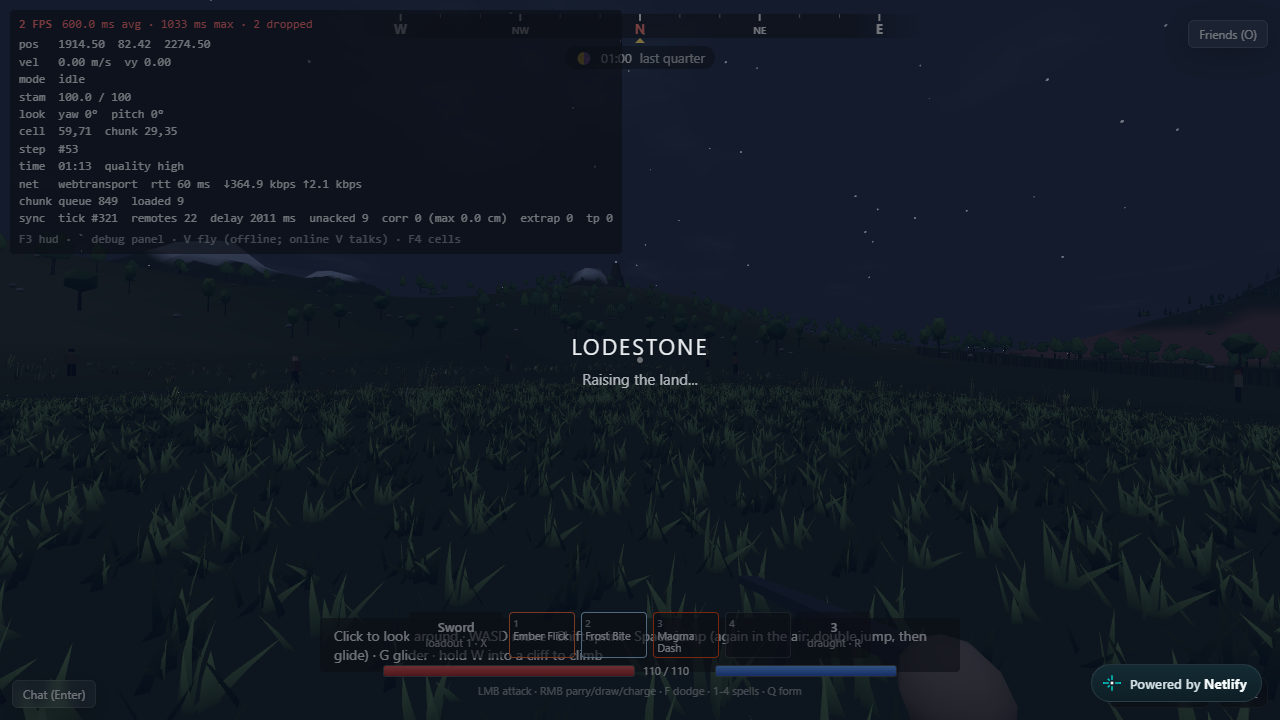
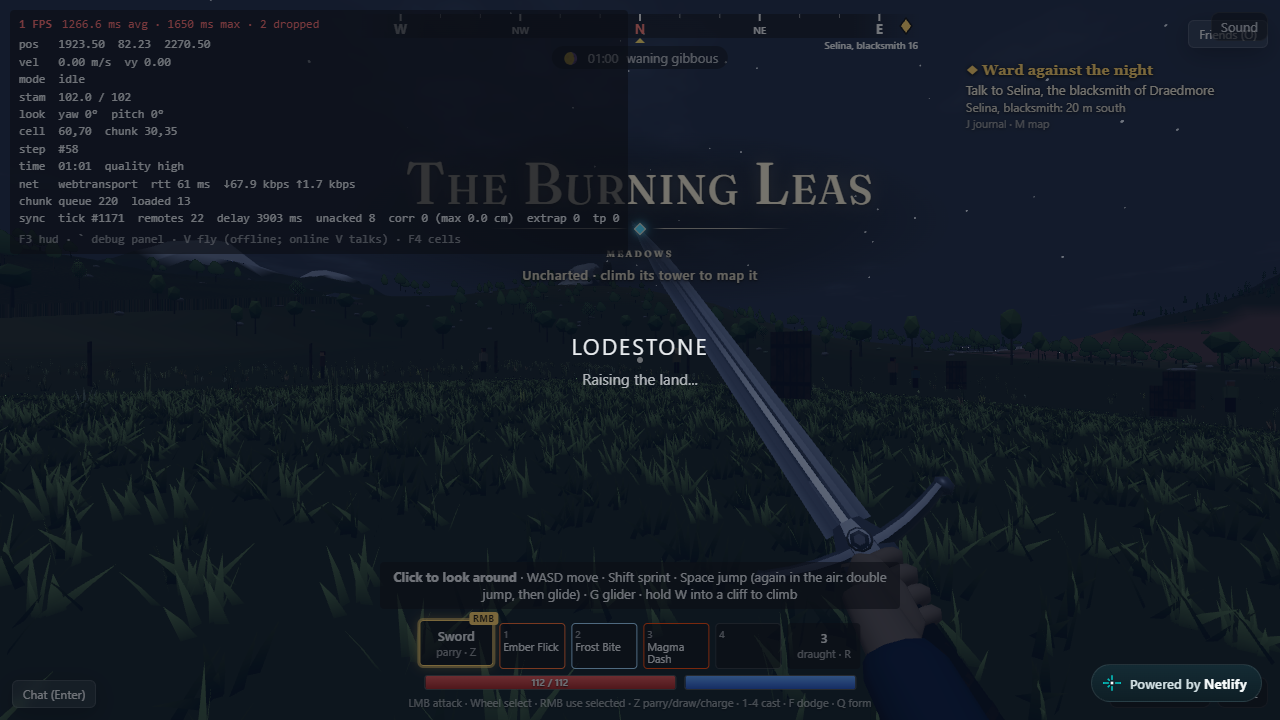
Live: renewed to genVersion 2, redeployed, smoke evidence

diff --git a/docs/STATUS.md b/docs/STATUS.md
@@ -10,7 +10,7 @@ Gates: G0 ✅ · G1 ✅ · G2 ✅ · G3 ✅ · G4 ✅ · G5 ⏳
 - **G2**: two browsers see each other on *generated terrain* over the binary protocol under "thailand": docs/evidence/g2-two-browsers-terrain-ws.txt and g2-terrain-ws-*.png (run on main after the WP05 merge: 0 local corrections, 0 remote teleports; a first run on a heavily loaded machine (2 fps headless) logged one 58 cm eased remote jump, the re-run had none). 150-bot soaks within budget: wp03-soak-*, wp07-soak-spread.*. Chat and whispers: wp08-e2e.txt. Known gap: the WP06 acceptance harness doesn't start the social service, so its browsers log refused social sockets (harmless; WP08's e2e covers social).
 - **G3**: two friends (two headless Chromium browsers, real account/director/zone/social services, shared LiveKit) in one session: friends + party, proximity voice (16.2 dB fade 3-7 m vs 30-40 m, silent past 51.5 m, party radio flat past 56 m), tower climb with stamina + glide (prediction <= 0.83 cm, 0 corrections), tower reveal + fast travel + shared party pin, both walk 190 m down into the same cave (seen 143/143, heard 143/143, 0 corrections) and mine an iron vein. 45/45 checks: docs/evidence/g3-acceptance.txt, g3-*.png; re-run `node tools/acceptance/g3.mjs`. Three cross-package bugs fixed on the way (cave earshot rule never fed, cave voice wrongly muffled, endless corrections after a teleport). Weather is pinned dry in the run (rain halves climb speed by design). WP20 (towns) is still being built; G3 itself does not need towns.
 - **G4**: one session on merged main, real account/director/zone/social services, a headless Chromium player driving the real client UI (inventory, crafting panel, forge, socketing) plus two night bots: fight a camp (2 boars), loot (4 kill grants, 2 chests), mine 2 sunsteel veins + a topaz, walk into town, buy the Sunsteel Blade blueprint, smelt 2 ingots, forge the blade, socket the topaz (zone reports lightning element), equip; at night 4 demons shrug off 17 starting-sword hits and die to the blade in 25 s; a 3-wave town defense (34 demons) holds; sunrise burns the rest; player survives. 32/32 checks: docs/evidence/g4-acceptance.txt, g4-*.png; re-run `node tools/acceptance/g4.mjs` (~11 min). Dev shortcuts: rejoin at spawn points to reach far cave veins, debug camp placement, clock jumps between dusk and dawn, forced defense, rain off. Three cross-package bugs fixed (cave HUD surviving rejoins, leashed bots locking onto unreachable enemies, chest list not resent for late chunks).
-- **Deployed (2026-11-08, approved by Nicole)**: GCP project `sw-viz` (the billing account is at its project quota, so a dedicated project could not be billed; every resource is `lodestone-*`), client https://lodestone-rpg-game.netlify.app, creator https://lodestone-rpg-creator.netlify.app, director/account/creator on Cloud Run, game VM `lodestone-game` (wake on demand). Live smoke `node infra/smoke-live.mjs https://lodestone-rpg-game.netlify.app`: waking screen -> account -> local profile -> playing over WebTransport, 60 ms RTT, townsfolk visible (docs/evidence/deploy-live-playing.png). Three deploy bugs found and fixed on the way: the creator site overwrote the client (shared Netlify link state), `--site-name` creates a suffixed duplicate on re-deploys, and the director wake provider asked Compute for a non-existent field (every wake status call was HTTP 400). Redeployed with WP14/WP15/WP19 (2026-11-08): warm smoke PASS (~10 s to playing), cold wake from a stopped VM PASS (~100 s to playing; the waking screen says "under a minute", so the copy or the boot time needs work). A fourth bug was found on the cold wake: Docker restarted the previous containers at boot, the director saw them healthy and sent the player in while the startup script recreated the stack (connect failed with "database system is shutting down"); the VM compose now uses restart: on-failure. Note: `gcloud compute ssh` (deploy updates of an awake VM) added an SSH key to sw-viz project metadata. Open: Firebase Google sign-in needs the console steps the deploy prints (local profiles work); the deployed build predates WP14/WP15/WP19 (re-run `LODESTONE_GCP_PROJECT=sw-viz LODESTONE_NETLIFY_CLIENT_SITE=lodestone-rpg-game npm run deploy -- --creator-site lodestone-rpg-creator` after they merge).
+- **Deployed (2026-11-08, approved by Nicole)**: GCP project `sw-viz` (the billing account is at its project quota, so a dedicated project could not be billed; every resource is `lodestone-*`), client https://lodestone-rpg-game.netlify.app, creator https://lodestone-rpg-creator.netlify.app, director/account/creator on Cloud Run, game VM `lodestone-game` (wake on demand). Live smoke `node infra/smoke-live.mjs https://lodestone-rpg-game.netlify.app`: waking screen -> account -> local profile -> playing over WebTransport, 60 ms RTT, townsfolk visible (docs/evidence/deploy-live-playing.png). Three deploy bugs found and fixed on the way: the creator site overwrote the client (shared Netlify link state), `--site-name` creates a suffixed duplicate on re-deploys, and the director wake provider asked Compute for a non-existent field (every wake status call was HTTP 400). Redeployed with WP14/WP15/WP19 (2026-11-08): warm smoke PASS (~10 s to playing), cold wake from a stopped VM PASS (~100 s to playing; the waking screen says "under a minute", so the copy or the boot time needs work). A fourth bug was found on the cold wake: Docker restarted the previous containers at boot, the director saw them healthy and sent the player in while the startup script recreated the stack (connect failed with "database system is shutting down"); the VM compose now uses restart: on-failure. Note: `gcloud compute ssh` (deploy updates of an awake VM) added an SSH key to sw-viz project metadata. Redeployed 2026-11-09 with playtest 1 (progression, quests/UX, audio, towns) and the WP19 second pass; the live official world was renewed from genVersion 1 to 2 on the VM (fresh dump gs://sw-viz-lodestone-backups/pg/20261109T170131Z-manual.sql.gz first; `mintworld -official -renew`: sites kept, 0 characters moved; zone restarted and serving genVersion 2); live smoke PASS (docs/evidence/deploy-live-playing.png: discovery intro, starter quest tracker, new sword, HUD). Incident: the temporary G5 soak VMs used all 32 vCPUs of the sw-viz CPU quota for ~45 min, so the game VM could not start (QUOTA_EXCEEDED, invisible to the director); the director now logs a VM that stays stopped after repeated starts. Open: Firebase Google sign-in needs the console steps the deploy prints (local profiles work); the deployed build predates WP14/WP15/WP19 (re-run `LODESTONE_GCP_PROJECT=sw-viz LODESTONE_NETLIFY_CLIENT_SITE=lodestone-rpg-game npm run deploy -- --creator-site lodestone-rpg-creator` after they merge).
 
 ## WP00: Monorepo scaffold and contracts ✅
 
